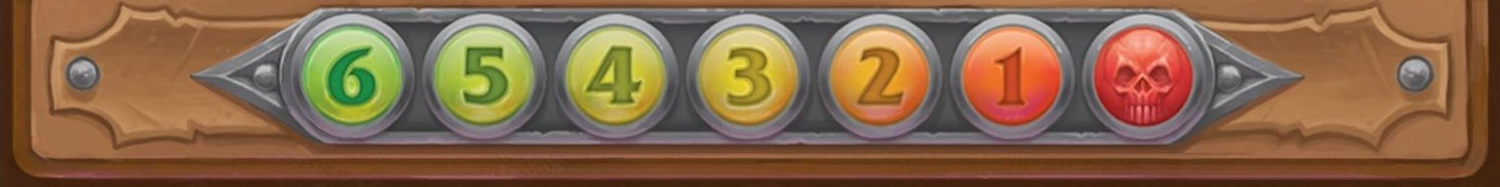
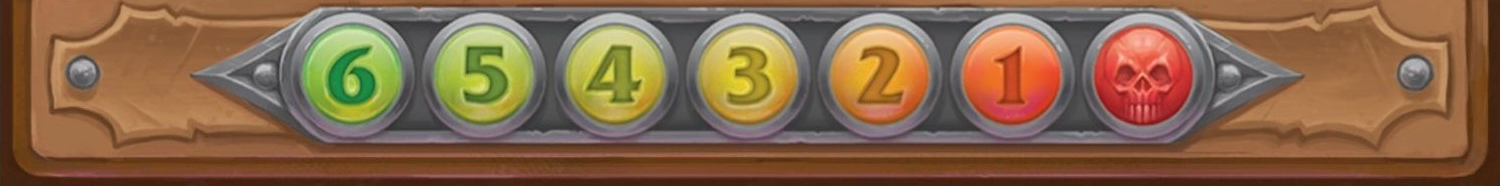
Add files via upload

diff --git a/hero-card.js b/hero-card.js
@@ -117,6 +117,7 @@
           heroImageDiv.style.backgroundPositionX = '0px';
           heroImageDiv.style.backgroundPositionY = '0px';
           heroImageDiv.style.backgroundSize = 'cover';
+          scale = 1;
         });
       }
       isMouseDown = false;
@@ -171,3 +172,16 @@
     document.querySelector('.hero-name').addEventListener('input', function() {
         document.title = 'Unofficial WoW Pandemic Hero - ' + this.textContent;
     });
+
+//    window.addEventListener('beforeprint', function() {
+//        //TODO: print to see how health bar looks
+//        document.querySelector('.hero-card-top').style.backgroundImage = "url('hero-card-template-wip.png')";
+//        var heroCard = document.querySelector('.hero-card');
+//        heroCardBgImage = window.getComputedStyle(heroCard).getPropertyValue('background-image');
+//        heroCard.style.backgroundImage = '';
+//    });
+//
+//    window.addEventListener('afterprint', function() {
+//        document.querySelector('.hero-card').style.backgroundImage = heroCardBgImage;
+//        document.querySelector('.hero-card-top').style.backgroundImage = '';
+//    });

diff --git a/hero-card.css b/hero-card.css
@@ -15,34 +15,38 @@
     justify-content: space-between;
     align-items: center;
 
-    background-image: url('hero-card-template.png');
+    background-image: url('hero-card-template-transhealth186.png');
     background-size: cover;
     background-position: center;
     background-repeat: no-repeat;
 
     position: relative;
-    transform: scale(0.955, 0.97);
+    transform: scale(0.96, 0.96);
   }
 
   .hero-card-top {
     width: 100%;
-    height: 84.5%;
+    height: 338px;
     display: flex;
     justify-content: space-between;
     align-items: center;
 
     position: relative;
+
+    background-size: 100% 100%;
+    background-position: center;
+    background-repeat: no-repeat;
   }
 
   .hero-card-bottom {
     width: 100%;
-    height: 15.5%;
+    height: 63px;
     display: flex;
     justify-content: center;
     align-items: center;
 
-    background-image: url('health-bar-8.png');
-    background-size: cover;
+    background-image: url('health-bar-7-x186gimp.png');
+    background-size: 100% 100%;
     background-position: center;
     background-repeat: no-repeat;
   }

diff --git a/hero-config.js b/hero-config.js
@@ -45,7 +45,7 @@
             let config = this.config;
             if (config.faction != null) this.setFaction(config.faction);
             if (config.heroName != null) this.setElementText('.hero-name', config.heroName);
-            document.title = 'Unofficial WoW Pandemic Hero - ' + config.heroName || '';
+            if (config.heroName != null) document.title = 'Unofficial WoW Pandemic Hero - ' + config.heroName || '';
             if (config.heroTitle != null) this.setElementText('.hero-title', config.heroTitle);
             if (config.heroQuote != null) this.setElementText('.hero-quote', config.heroQuote);
             if (config.heroImageUrl != null) this.heroCard.parentNode.querySelector('.hero-image').style.backgroundImage = 'url("' + config.heroImageUrl + '")';

diff --git a/hero-card.html b/hero-card.html
@@ -2,7 +2,7 @@
 <html lang="en">
 <head>
     <meta charset="UTF-8">
-    <title>Unofficial WoW Pandemic Hero - Alexstrasza</title>
+    <title>Unofficial WoW Pandemic Hero</title>
     <link rel="stylesheet" href="hero-card.css">
     <link rel="icon" href="favicon-16x16.png" sizes="16x16" type="image/png">
     <link rel="icon" href="favicon-32x32.png" sizes="32x32" type="image/png">
